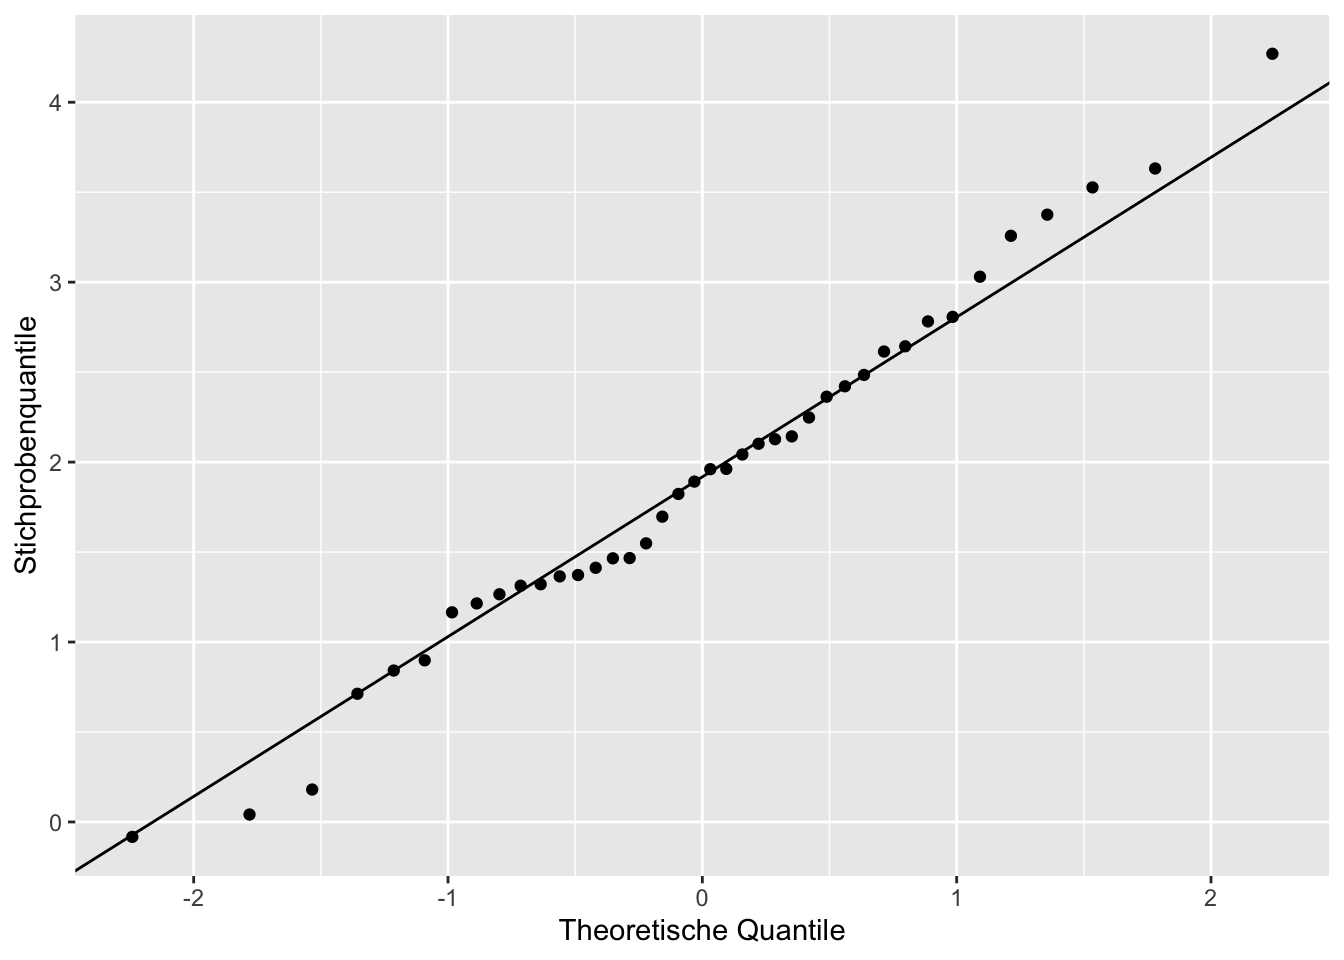
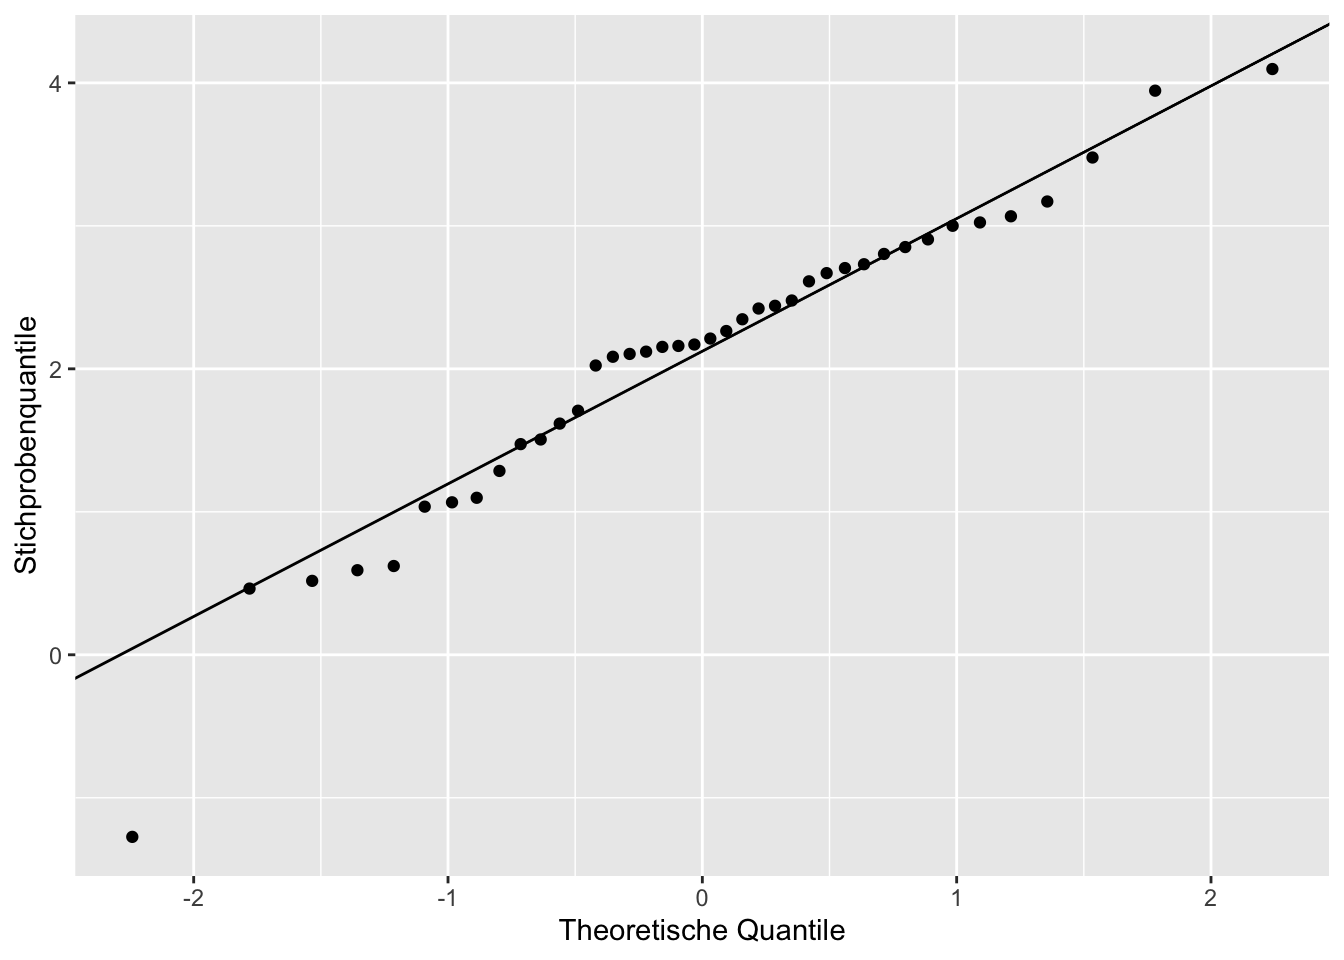
update day 3 noon toc fix 6

diff --git a/docs/index.html b/docs/index.html
@@ -184,11 +184,7 @@ window.Quarto = {
 </li>
     </ul>
     </div>
-</nav>
-<div id="quarto-sidebar-glass" class="quarto-sidebar-collapse-item" data-bs-toggle="collapse" data-bs-target=".quarto-sidebar-collapse-item"></div>
-<!-- margin-sidebar -->
-    <div id="quarto-margin-sidebar" class="sidebar margin-sidebar">
-        <nav id="TOC" role="doc-toc" class="toc-active">
+    <nav id="TOC" role="doc-toc" class="toc-active">
     <h2 id="toc-title">On this page</h2>
    
   <ul>
@@ -242,9 +238,17 @@ window.Quarto = {
   <li><a href="#unverbundene-stichproben" id="toc-unverbundene-stichproben" class="nav-link" data-scroll-target="#unverbundene-stichproben">Unverbundene Stichproben</a></li>
   <li><a href="#verbundene-stichproben" id="toc-verbundene-stichproben" class="nav-link" data-scroll-target="#verbundene-stichproben">Verbundene Stichproben</a></li>
   </ul></li>
+  <li><a href="#korrelation-und-einfache-lineare-regression" id="toc-korrelation-und-einfache-lineare-regression" class="nav-link" data-scroll-target="#korrelation-und-einfache-lineare-regression">Korrelation und einfache lineare Regression</a>
+  <ul class="collapse">
+  <li><a href="#korrelationskoeffizient-nach-pearson" id="toc-korrelationskoeffizient-nach-pearson" class="nav-link" data-scroll-target="#korrelationskoeffizient-nach-pearson">Korrelationskoeffizient nach Pearson</a></li>
+  </ul></li>
   </ul></li>
   </ul>
 </nav>
+</nav>
+<div id="quarto-sidebar-glass" class="quarto-sidebar-collapse-item" data-bs-toggle="collapse" data-bs-target=".quarto-sidebar-collapse-item"></div>
+<!-- margin-sidebar -->
+    <div id="quarto-margin-sidebar" class="sidebar margin-sidebar zindex-bottom">
     </div>
 <!-- main -->
 <main class="content" id="quarto-document-content">
@@ -274,63 +278,7 @@ window.Quarto = {
 
 </header>
 
-<nav id="TOC-body" role="doc-toc">
-    <h2 id="toc-title">On this page</h2>
-   
-  <ul>
-  <li><a href="#biometrie-i" id="toc-biometrie-i">Biometrie I</a>
-  <ul>
-  <li><a href="#einführung" id="toc-einführung">Einführung</a>
-  <ul>
-  <li><a href="#relevante-journals" id="toc-relevante-journals">Relevante Journals</a></li>
-  <li><a href="#modellierung-in-der-biostatistik" id="toc-modellierung-in-der-biostatistik">Modellierung in der Biostatistik</a></li>
-  </ul></li>
-  <li><a href="#grundprinzipien-des-statistischen-testens" id="toc-grundprinzipien-des-statistischen-testens">Grundprinzipien des statistischen Testens</a>
-  <ul>
-  <li><a href="#test-hypothesen" id="toc-test-hypothesen">Test-Hypothesen</a></li>
-  <li><a href="#binomialverteilung" id="toc-binomialverteilung">Binomialverteilung</a></li>
-  <li><a href="#p-wert" id="toc-p-wert">p-Wert</a></li>
-  <li><a href="#das-prinzip-des-statistischen-tests" id="toc-das-prinzip-des-statistischen-tests">Das Prinzip des statistischen Tests</a></li>
-  <li><a href="#fehler-1.-und-2.-art" id="toc-fehler-1.-und-2.-art">Fehler 1. und 2. Art</a></li>
-  <li><a href="#punktschätzung" id="toc-punktschätzung">Punktschätzung</a></li>
-  <li><a href="#konfidenzintervall" id="toc-konfidenzintervall">Konfidenzintervall</a></li>
-  <li><a href="#bericht-publikation" id="toc-bericht-publikation">Bericht / Publikation</a></li>
-  </ul></li>
-  <li><a href="#z-test-und-t-test-für-gepaarte-und-ungepaarte-stichproben" id="toc-z-test-und-t-test-für-gepaarte-und-ungepaarte-stichproben">z-Test und t-Test für gepaarte und ungepaarte Stichproben</a>
-  <ul>
-  <li><a href="#z-test" id="toc-z-test">z-Test</a></li>
-  <li><a href="#t-test" id="toc-t-test">t-Test</a></li>
-  </ul></li>
-  <li><a href="#tests-und-risikomaße-für-vierfeldertafeln" id="toc-tests-und-risikomaße-für-vierfeldertafeln">Tests und Risikomaße für Vierfeldertafeln</a>
-  <ul>
-  <li><a href="#chi2-test" id="toc-chi2-test"><span class="math inline">\(\chi^2\)</span> Test</a></li>
-  <li><a href="#konfidenzintervall-für-den-effekt-p1---p1" id="toc-konfidenzintervall-für-den-effekt-p1---p1">Konfidenzintervall für den Effekt <span class="math inline">\(p1 - p1\)</span></a></li>
-  <li><a href="#absolute-risikoreduktion" id="toc-absolute-risikoreduktion">Absolute Risikoreduktion</a></li>
-  </ul></li>
-  <li><a href="#kategorielle-variablen" id="toc-kategorielle-variablen">Kategorielle Variablen</a>
-  <ul>
-  <li><a href="#quantitative-maße-zu-kategoriellen-variablen" id="toc-quantitative-maße-zu-kategoriellen-variablen">Quantitative Maße zu kategoriellen Variablen</a></li>
-  <li><a href="#x2-tafel-und-abhängige-daten" id="toc-x2-tafel-und-abhängige-daten">2x2-Tafel und abhängige Daten</a></li>
-  <li><a href="#simpson-paradoxon" id="toc-simpson-paradoxon">Simpson-Paradoxon</a></li>
-  <li><a href="#stratifizierte-2x2-tafeln-2x2xh" id="toc-stratifizierte-2x2-tafeln-2x2xh">Stratifizierte 2x2-Tafeln: 2x2xH</a></li>
-  <li><a href="#x-c-tafel-mit-ordinaler-spaltenvariable" id="toc-x-c-tafel-mit-ordinaler-spaltenvariable">2 x c Tafel mit ordinaler Spaltenvariable</a></li>
-  </ul></li>
-  <li><a href="#normalverteilung" id="toc-normalverteilung">Normalverteilung</a>
-  <ul>
-  <li><a href="#standardnormalverteilung" id="toc-standardnormalverteilung">Standardnormalverteilung</a></li>
-  <li><a href="#bedeutung-der-normalverteilung" id="toc-bedeutung-der-normalverteilung">Bedeutung der Normalverteilung</a></li>
-  <li><a href="#normalverteilung-als-grenzverteilung-binomialverteilung" id="toc-normalverteilung-als-grenzverteilung-binomialverteilung">Normalverteilung als Grenzverteilung: Binomialverteilung</a></li>
-  <li><a href="#zentraler-grenzwertsatz-central-limit-theorem" id="toc-zentraler-grenzwertsatz-central-limit-theorem">Zentraler Grenzwertsatz (central limit theorem)</a></li>
-  <li><a href="#annahme-der-normalverteilung" id="toc-annahme-der-normalverteilung">Annahme der Normalverteilung</a></li>
-  </ul></li>
-  <li><a href="#nichtparametrische-verfahren" id="toc-nichtparametrische-verfahren">Nichtparametrische Verfahren</a>
-  <ul>
-  <li><a href="#unverbundene-stichproben" id="toc-unverbundene-stichproben">Unverbundene Stichproben</a></li>
-  <li><a href="#verbundene-stichproben" id="toc-verbundene-stichproben">Verbundene Stichproben</a></li>
-  </ul></li>
-  </ul></li>
-  </ul>
-</nav>
+
 <section id="biometrie-i" class="level1">
 <h1>Biometrie I</h1>
 <section id="einführung" class="level2">
@@ -957,9 +905,23 @@ Im allgemeinen bivariaten Modell ist der Vorzeichentest für einen Schluss auf d
 <li>Messwertpaare unabhängig</li>
 <li>metrische oder ordinale Daten</li>
 </ul>
-
-
 </section>
+</section>
+</section>
+<section id="korrelation-und-einfache-lineare-regression" class="level2">
+<h2 class="anchored" data-anchor-id="korrelation-und-einfache-lineare-regression">Korrelation und einfache lineare Regression</h2>
+<section id="korrelationskoeffizient-nach-pearson" class="level3">
+<h3 class="anchored" data-anchor-id="korrelationskoeffizient-nach-pearson">Korrelationskoeffizient nach Pearson</h3>
+<p><span class="math inline">\(r_{xy}\)</span> untersucht den <strong>linearen Zusammenhang</strong> zwischen zwei <strong>metrischen</strong> Variablen. Er wird gebildet über die Normierung der Kovarianz.</p>
+<p>Voraussetzungen:</p>
+<ul>
+<li>Unabhängige Beobachtungen</li>
+<li>Normalverteilung der Variablen</li>
+<li>Zusammenhang annähernd linear</li>
+</ul>
+<p><span class="math inline">\(r_{xy}\)</span> ist dimensionslos und bewegt sich im Wertebereich [-1;1]. Das Vorzeichen zeigt die Richtung des linearen Zusammenhangs an. Die Abweichung von 0 gibt die Stärke des linearen Zusammenhangs an.</p>
+
+
 </section>
 </section>
 </section>

diff --git a/docs/biometrie1/biometrie1.html b/docs/biometrie1/biometrie1.html
@@ -185,11 +185,7 @@ window.Quarto = {
 </li>
     </ul>
     </div>
-</nav>
-<div id="quarto-sidebar-glass" class="quarto-sidebar-collapse-item" data-bs-toggle="collapse" data-bs-target=".quarto-sidebar-collapse-item"></div>
-<!-- margin-sidebar -->
-    <div id="quarto-margin-sidebar" class="sidebar margin-sidebar">
-        <nav id="TOC" role="doc-toc" class="toc-active">
+    <nav id="TOC" role="doc-toc" class="toc-active">
     <h2 id="toc-title">On this page</h2>
    
   <ul>
@@ -241,68 +237,23 @@ window.Quarto = {
   <li><a href="#unverbundene-stichproben" id="toc-unverbundene-stichproben" class="nav-link" data-scroll-target="#unverbundene-stichproben">Unverbundene Stichproben</a></li>
   <li><a href="#verbundene-stichproben" id="toc-verbundene-stichproben" class="nav-link" data-scroll-target="#verbundene-stichproben">Verbundene Stichproben</a></li>
   </ul></li>
+  <li><a href="#korrelation-und-einfache-lineare-regression" id="toc-korrelation-und-einfache-lineare-regression" class="nav-link" data-scroll-target="#korrelation-und-einfache-lineare-regression">Korrelation und einfache lineare Regression</a>
+  <ul class="collapse">
+  <li><a href="#korrelationskoeffizient-nach-pearson" id="toc-korrelationskoeffizient-nach-pearson" class="nav-link" data-scroll-target="#korrelationskoeffizient-nach-pearson">Korrelationskoeffizient nach Pearson</a></li>
+  </ul></li>
   </ul>
 </nav>
+</nav>
+<div id="quarto-sidebar-glass" class="quarto-sidebar-collapse-item" data-bs-toggle="collapse" data-bs-target=".quarto-sidebar-collapse-item"></div>
+<!-- margin-sidebar -->
+    <div id="quarto-margin-sidebar" class="sidebar margin-sidebar zindex-bottom">
     </div>
 <!-- main -->
 <main class="content" id="quarto-document-content"><header id="title-block-header" class="quarto-title-block"></header>
 
 
 
-<nav id="TOC-body" role="doc-toc">
-    <h2 id="toc-title">On this page</h2>
-   
-  <ul>
-  <li><a href="#einführung" id="toc-einführung">Einführung</a>
-  <ul>
-  <li><a href="#relevante-journals" id="toc-relevante-journals">Relevante Journals</a></li>
-  <li><a href="#modellierung-in-der-biostatistik" id="toc-modellierung-in-der-biostatistik">Modellierung in der Biostatistik</a></li>
-  </ul></li>
-  <li><a href="#grundprinzipien-des-statistischen-testens" id="toc-grundprinzipien-des-statistischen-testens">Grundprinzipien des statistischen Testens</a>
-  <ul>
-  <li><a href="#test-hypothesen" id="toc-test-hypothesen">Test-Hypothesen</a></li>
-  <li><a href="#binomialverteilung" id="toc-binomialverteilung">Binomialverteilung</a></li>
-  <li><a href="#p-wert" id="toc-p-wert">p-Wert</a></li>
-  <li><a href="#das-prinzip-des-statistischen-tests" id="toc-das-prinzip-des-statistischen-tests">Das Prinzip des statistischen Tests</a></li>
-  <li><a href="#fehler-1.-und-2.-art" id="toc-fehler-1.-und-2.-art">Fehler 1. und 2. Art</a></li>
-  <li><a href="#punktschätzung" id="toc-punktschätzung">Punktschätzung</a></li>
-  <li><a href="#konfidenzintervall" id="toc-konfidenzintervall">Konfidenzintervall</a></li>
-  <li><a href="#bericht-publikation" id="toc-bericht-publikation">Bericht / Publikation</a></li>
-  </ul></li>
-  <li><a href="#z-test-und-t-test-für-gepaarte-und-ungepaarte-stichproben" id="toc-z-test-und-t-test-für-gepaarte-und-ungepaarte-stichproben">z-Test und t-Test für gepaarte und ungepaarte Stichproben</a>
-  <ul>
-  <li><a href="#z-test" id="toc-z-test">z-Test</a></li>
-  <li><a href="#t-test" id="toc-t-test">t-Test</a></li>
-  </ul></li>
-  <li><a href="#tests-und-risikomaße-für-vierfeldertafeln" id="toc-tests-und-risikomaße-für-vierfeldertafeln">Tests und Risikomaße für Vierfeldertafeln</a>
-  <ul>
-  <li><a href="#chi2-test" id="toc-chi2-test"><span class="math inline">\(\chi^2\)</span> Test</a></li>
-  <li><a href="#konfidenzintervall-für-den-effekt-p1---p1" id="toc-konfidenzintervall-für-den-effekt-p1---p1">Konfidenzintervall für den Effekt <span class="math inline">\(p1 - p1\)</span></a></li>
-  <li><a href="#absolute-risikoreduktion" id="toc-absolute-risikoreduktion">Absolute Risikoreduktion</a></li>
-  </ul></li>
-  <li><a href="#kategorielle-variablen" id="toc-kategorielle-variablen">Kategorielle Variablen</a>
-  <ul>
-  <li><a href="#quantitative-maße-zu-kategoriellen-variablen" id="toc-quantitative-maße-zu-kategoriellen-variablen">Quantitative Maße zu kategoriellen Variablen</a></li>
-  <li><a href="#x2-tafel-und-abhängige-daten" id="toc-x2-tafel-und-abhängige-daten">2x2-Tafel und abhängige Daten</a></li>
-  <li><a href="#simpson-paradoxon" id="toc-simpson-paradoxon">Simpson-Paradoxon</a></li>
-  <li><a href="#stratifizierte-2x2-tafeln-2x2xh" id="toc-stratifizierte-2x2-tafeln-2x2xh">Stratifizierte 2x2-Tafeln: 2x2xH</a></li>
-  <li><a href="#x-c-tafel-mit-ordinaler-spaltenvariable" id="toc-x-c-tafel-mit-ordinaler-spaltenvariable">2 x c Tafel mit ordinaler Spaltenvariable</a></li>
-  </ul></li>
-  <li><a href="#normalverteilung" id="toc-normalverteilung">Normalverteilung</a>
-  <ul>
-  <li><a href="#standardnormalverteilung" id="toc-standardnormalverteilung">Standardnormalverteilung</a></li>
-  <li><a href="#bedeutung-der-normalverteilung" id="toc-bedeutung-der-normalverteilung">Bedeutung der Normalverteilung</a></li>
-  <li><a href="#normalverteilung-als-grenzverteilung-binomialverteilung" id="toc-normalverteilung-als-grenzverteilung-binomialverteilung">Normalverteilung als Grenzverteilung: Binomialverteilung</a></li>
-  <li><a href="#zentraler-grenzwertsatz-central-limit-theorem" id="toc-zentraler-grenzwertsatz-central-limit-theorem">Zentraler Grenzwertsatz (central limit theorem)</a></li>
-  <li><a href="#annahme-der-normalverteilung" id="toc-annahme-der-normalverteilung">Annahme der Normalverteilung</a></li>
-  </ul></li>
-  <li><a href="#nichtparametrische-verfahren" id="toc-nichtparametrische-verfahren">Nichtparametrische Verfahren</a>
-  <ul>
-  <li><a href="#unverbundene-stichproben" id="toc-unverbundene-stichproben">Unverbundene Stichproben</a></li>
-  <li><a href="#verbundene-stichproben" id="toc-verbundene-stichproben">Verbundene Stichproben</a></li>
-  </ul></li>
-  </ul>
-</nav>
+
 <section id="einführung" class="level2">
 <h2 class="anchored" data-anchor-id="einführung">Einführung</h2>
 <section id="relevante-journals" class="level3">
@@ -927,9 +878,23 @@ Im allgemeinen bivariaten Modell ist der Vorzeichentest für einen Schluss auf d
 <li>Messwertpaare unabhängig</li>
 <li>metrische oder ordinale Daten</li>
 </ul>
-
-
 </section>
+</section>
+</section>
+<section id="korrelation-und-einfache-lineare-regression" class="level2">
+<h2 class="anchored" data-anchor-id="korrelation-und-einfache-lineare-regression">Korrelation und einfache lineare Regression</h2>
+<section id="korrelationskoeffizient-nach-pearson" class="level3">
+<h3 class="anchored" data-anchor-id="korrelationskoeffizient-nach-pearson">Korrelationskoeffizient nach Pearson</h3>
+<p><span class="math inline">\(r_{xy}\)</span> untersucht den <strong>linearen Zusammenhang</strong> zwischen zwei <strong>metrischen</strong> Variablen. Er wird gebildet über die Normierung der Kovarianz.</p>
+<p>Voraussetzungen:</p>
+<ul>
+<li>Unabhängige Beobachtungen</li>
+<li>Normalverteilung der Variablen</li>
+<li>Zusammenhang annähernd linear</li>
+</ul>
+<p><span class="math inline">\(r_{xy}\)</span> ist dimensionslos und bewegt sich im Wertebereich [-1;1]. Das Vorzeichen zeigt die Richtung des linearen Zusammenhangs an. Die Abweichung von 0 gibt die Stärke des linearen Zusammenhangs an.</p>
+
+
 </section>
 </section>
 
